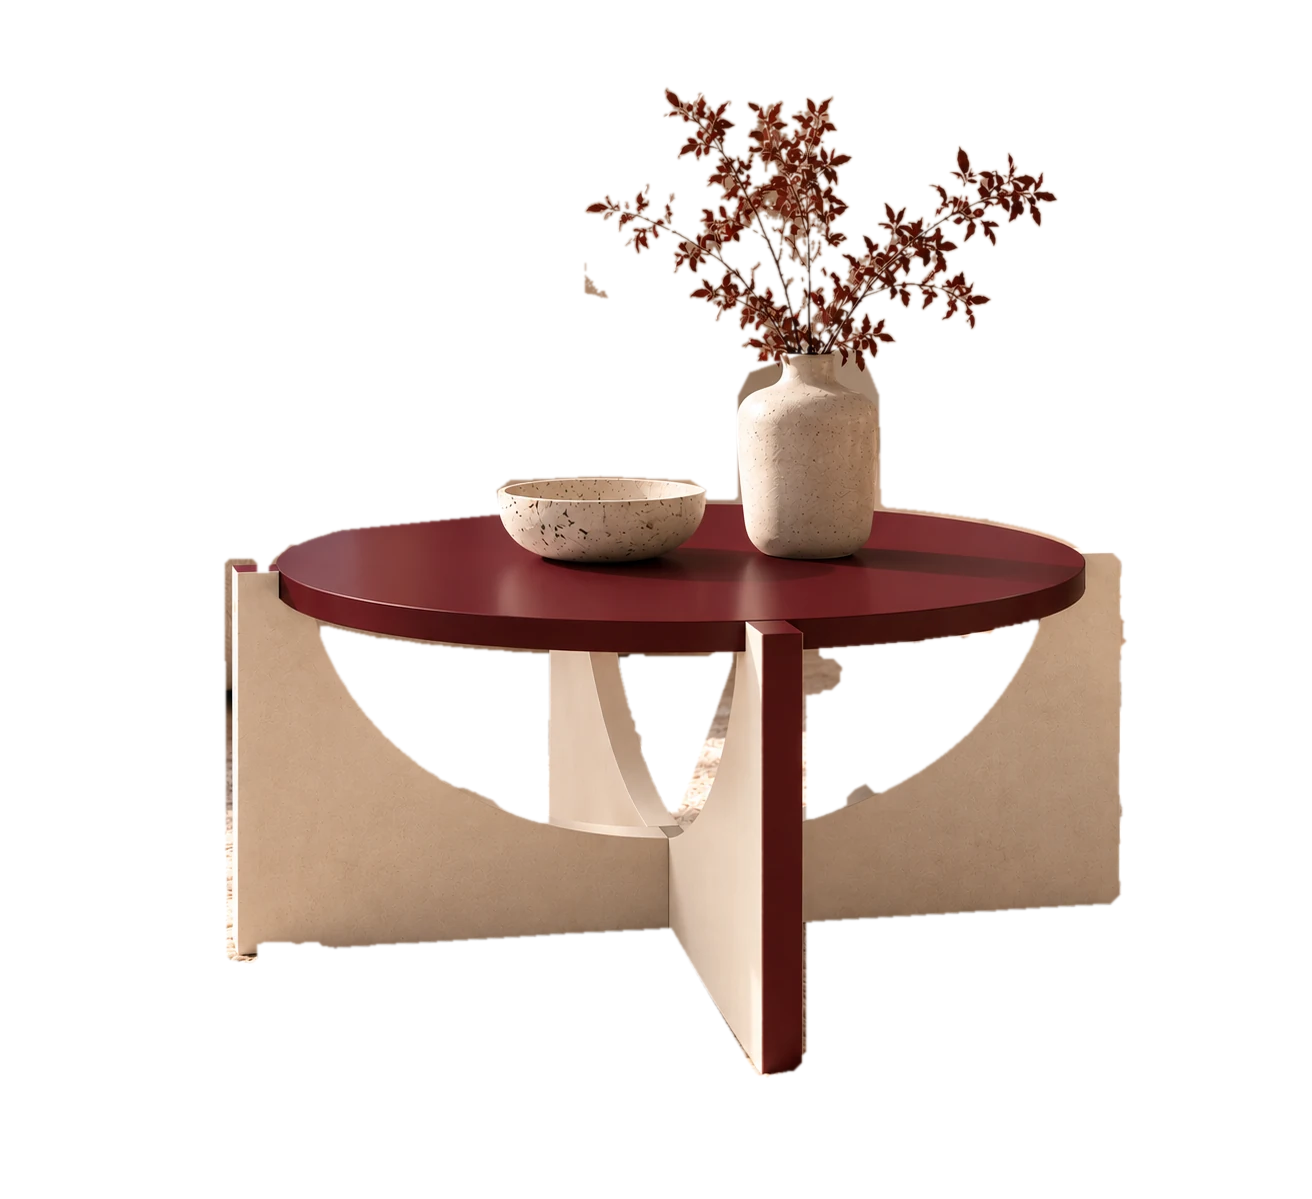
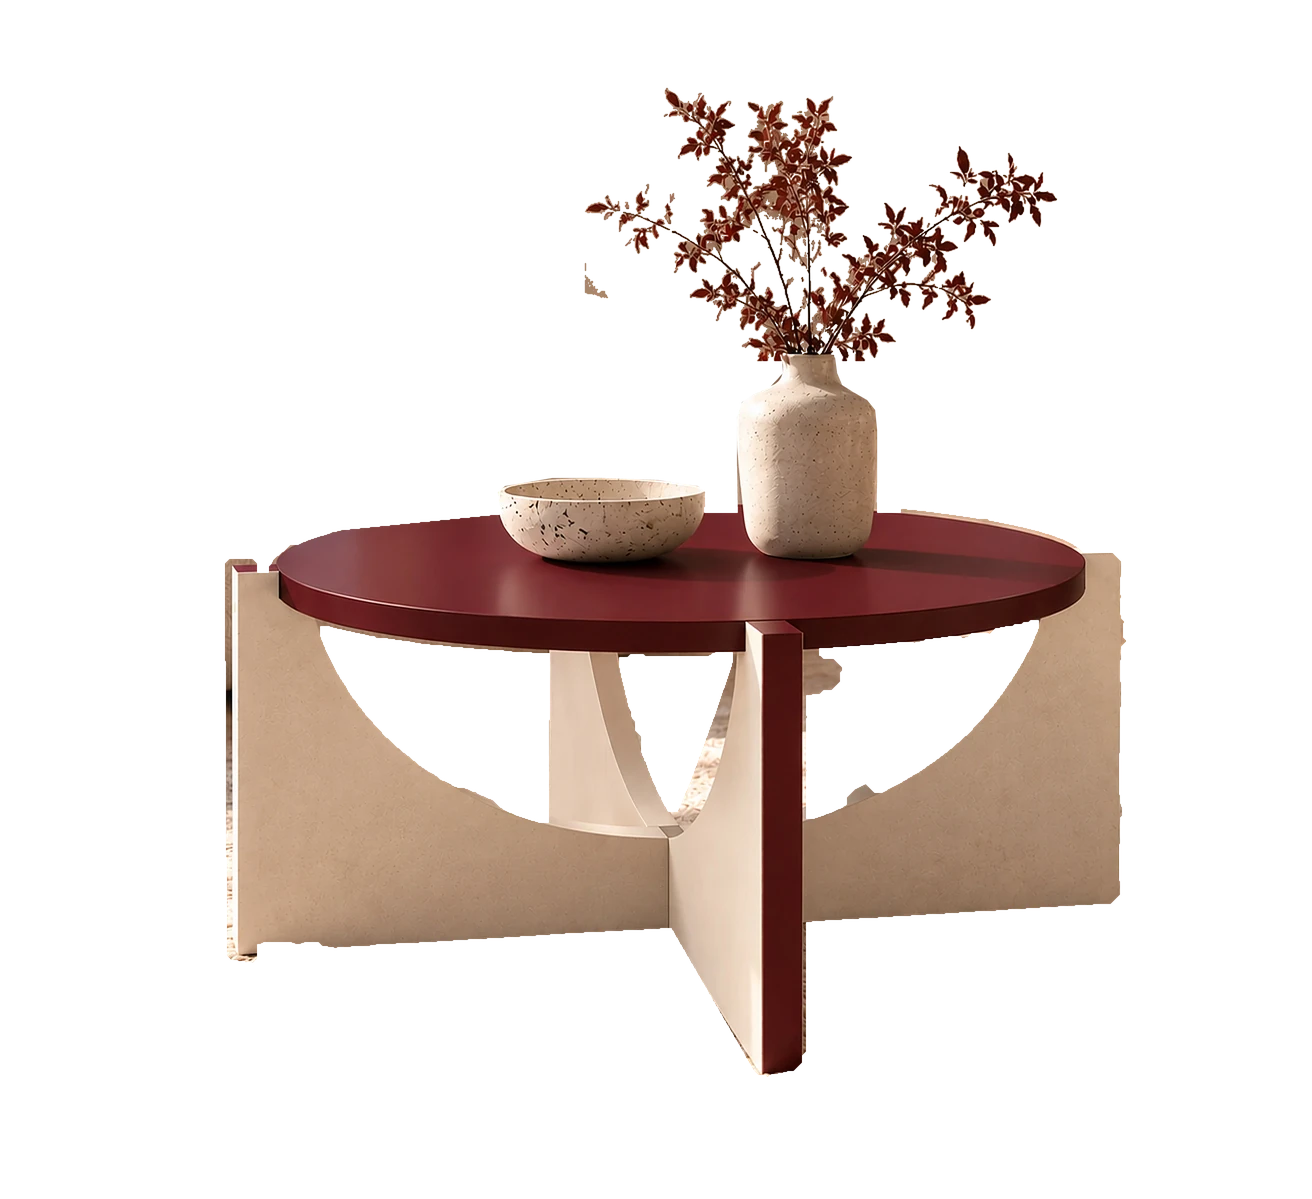
Sharper cover: 2x photo and crisp cut-out with precise vase/bowl outlines, served via srcset
Claude-Session: https://claude.ai/code/session_018BGafmWB3sae5LfdRxXXm2

diff --git a/index.html b/index.html
@@ -745,9 +745,9 @@ S.hero=()=>`
 <section class="hero" id="hero" aria-label="TuttoTondo">
   <div class="hero-top mono"><span>Collection · 01</span><span>Cream × Bordeaux</span></div>
   <div class="hero-media">
-    <img class="bg" src="img/lifestyle.jpg" width="1312" height="1199" fetchpriority="high" alt="TuttoTondo coffee table in cream and bordeaux, in a sunlit living room above Lake Como">
+    <img class="bg" src="img/lifestyle.jpg" srcset="img/lifestyle.jpg 1312w, img/lifestyle@2x.jpg 2624w" sizes="100vw" width="1312" height="1199" fetchpriority="high" alt="TuttoTondo coffee table in cream and bordeaux, in a sunlit living room above Lake Como">
     <h1 class="hero-word" aria-label="TuttoTondo"><span class="w1" aria-hidden="true">Tutto</span><span class="w2" aria-hidden="true">tondo</span></h1>
-    <img class="fg" src="img/cover-fg.webp" width="1312" height="1199" alt="" aria-hidden="true">
+    <img class="fg" src="img/cover-fg.webp" srcset="img/cover-fg.webp 1312w, img/cover-fg@2x.webp 2624w" sizes="100vw" width="1312" height="1199" alt="" aria-hidden="true">
   </div>
   <div class="hero-bot">
     <div><p class="tagline">One sheet.<br><em>Infinite balance.</em></p><p class="hero-meta mono">Tool-free · Made in Italy · From <i>${P('standard')}</i></p></div>
